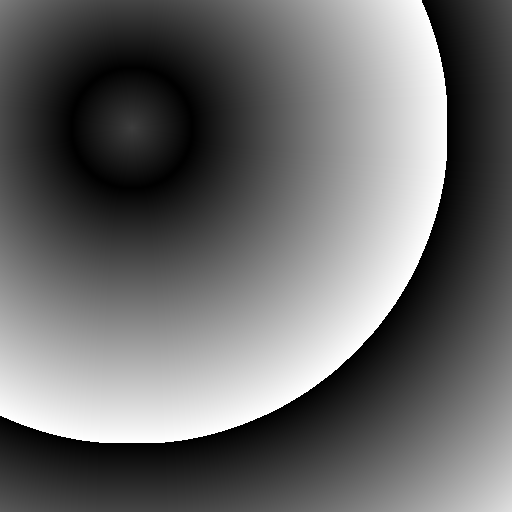
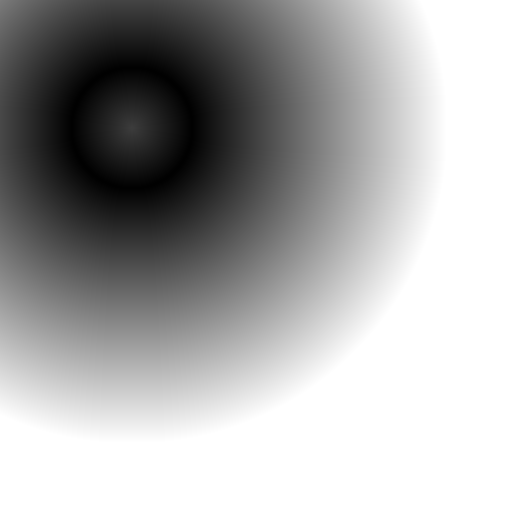
fixed bug in exporter

diff --git a/src/output.rs b/src/output.rs
@@ -36,7 +36,11 @@ impl FieldOutput for PngOutput {
         let data = df.data.into_iter().map(|cell: Cell| {
             // TODO: what to to if distance is none?
             // max((cell.distance_to_nearest_squared().unwrap() as f64).sqrt() as u8, 255) as u8
-            min((cell.distance_to_nearest_squared().unwrap() as f64).sqrt() as u8, 255) as u8
+            let square_root = (cell.distance_to_nearest_squared().unwrap() as f32).sqrt();
+            // let val = min(square_root, 255f32);
+            if square_root > 255f32 { 255u8 } else {
+                square_root as u8
+            }
         }).collect::<Vec<u8>>();
 
         writer.write_image_data(&data).unwrap(); // Save
